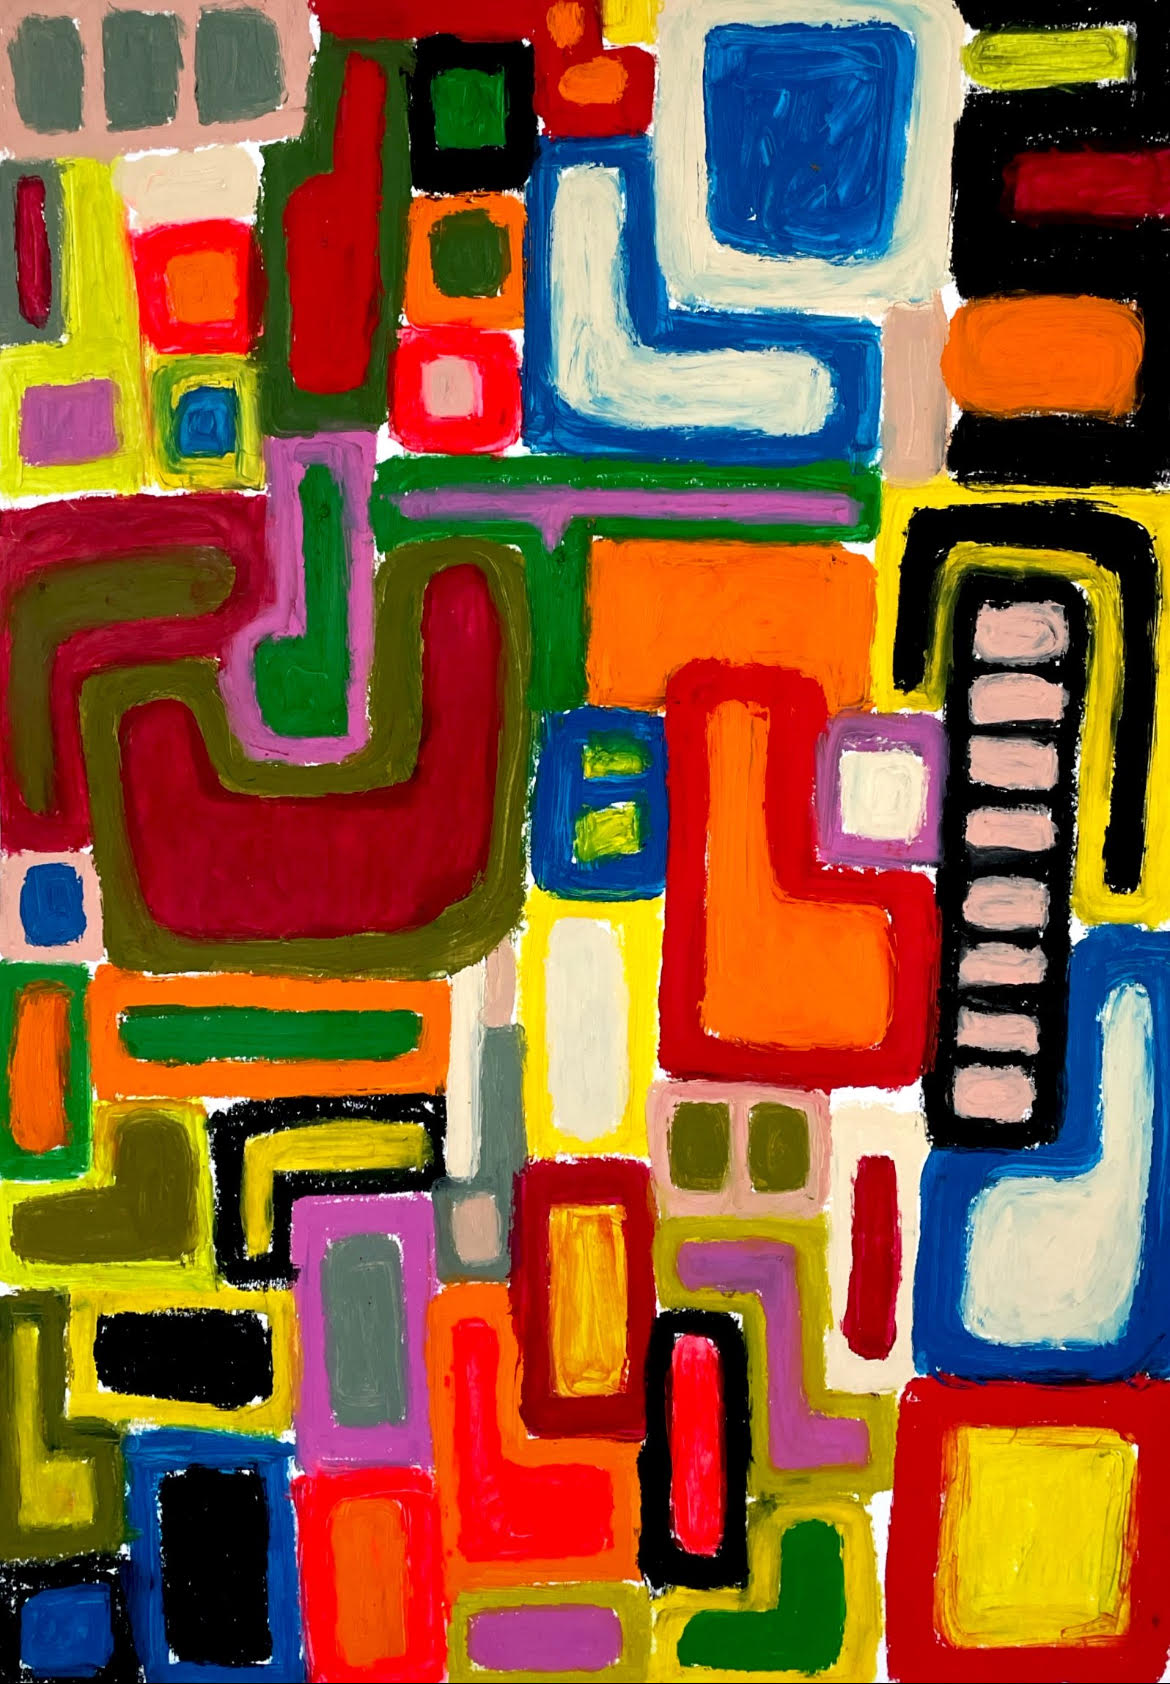
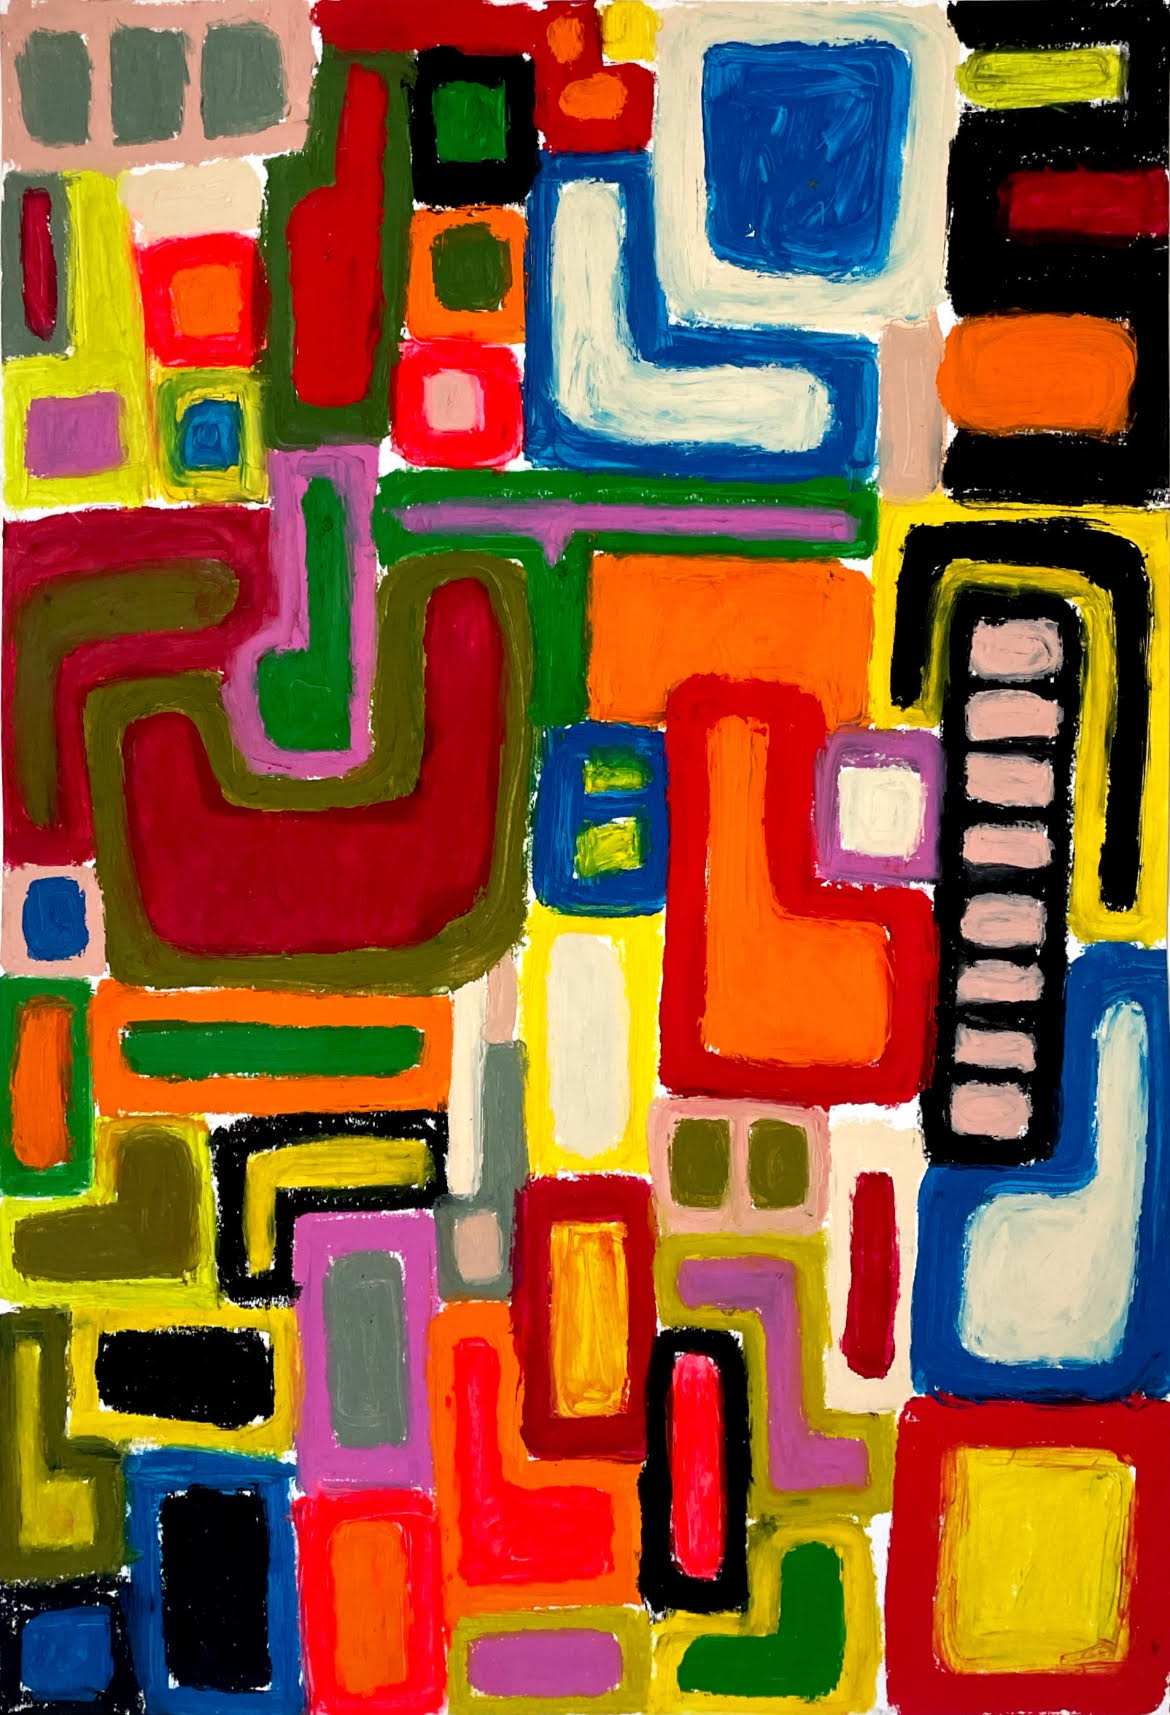
font and img size

Changed region(s): [[0.0, 0.0, 1.0, 1.0]]

diff --git a/css/styles.css b/css/styles.css
@@ -12,7 +12,11 @@ body, html {
 }
 
 img {
-    max-width: 100%;
+    max-width: 95%;
     height: auto;
-    max-height: 100vh; 
+    max-height: 95vh; 
+}
+
+p {
+    font-family: Arial, Helvetica, sans-serif;
 }
